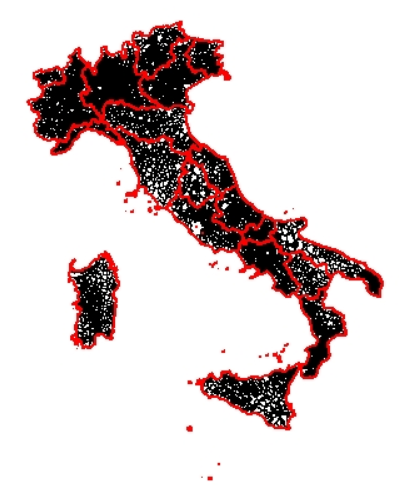
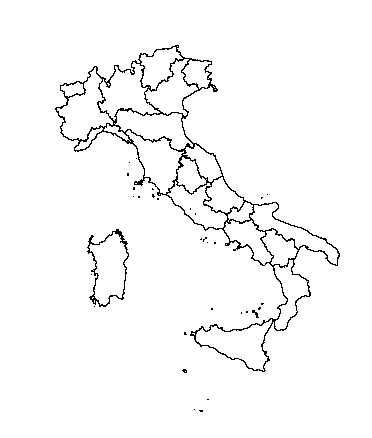
uodate dissolve R

diff --git a/prove/dissolvi_regione.md b/prove/dissolvi_regione.md
@@ -85,6 +85,7 @@ time mapshaper encoding=utf-8  com01012018_wgs84.shp -dissolve cod_reg -o outdis
 ##required packages
 library("rgdal")
 library("maptools")
+library("raster")
 
 start.time <- Sys.time()
 ## read shapefile
@@ -93,12 +94,11 @@ end.time <- Sys.time()
 time.taken <- end.time - start.time
 time.taken
 
-##dissolve with maptools AND writeOGR
+##dissolve with raster AND writeOGR
 start.time <- Sys.time()
-dissolve_reg<-unionSpatialPolygons(comuni, comuni$cod_reg)
-#plot(dissolve_reg)
-dissolve_reg<- as(dissolve_reg,"SpatialPolygonsDataFrame")
-writeOGR(dissolve_reg, dsn = "C:\\Users\\Salvatore\\Desktop\\mapshaper",layer="dissolve_regR", driver = "ESRI Shapefile")
+dissolveR<- aggregate(comuni, by ='cod_reg')
+#plot(dissolveR)
+writeOGR(dissolveR, dsn = "C:\\Users\\Salvatore\\Desktop\\mapshaper",layer="dissolve_regioni", driver = "ESRI Shapefile")
 end.time <- Sys.time()
 time.taken <- end.time - start.time
 time.taken
@@ -118,4 +118,4 @@ tempo [sec]|programma
 249|SpatiaLite_GUI 2.10
 381|pgAdmin 3 (PostGIS 2.2.3)
 9|mapshaper
-19+120|R + RStudio
+16+120|R + RStudio

diff --git a/prove/elimina_geom_duplicate.md b/prove/elimina_geom_duplicate.md
@@ -8,11 +8,10 @@ dataset: db sqlite con spatialidex
     - [QGIS 2.18.24](#qgis-21824)
     - [QGIS 3.2.3](#qgis-323)
     - [QGIS 3.3 master](#qgis-33-master)
-    - [SpatiaLite_GUI 2.10](#spatialite_gui-210)
+    - [SpatiaLite_GUI 2.10](#spatialitegui-210)
     - [PostgreSQL 9.3 / PostGIS 2.2.3 / pgAdmin 3](#postgresql-93--postgis-223--pgadmin-3)
-    - [mapshaper - [issues](https://github.com/mbloch/mapshaper/issues/305) - grazie [Andrea](https://twitter.com/aborruso?lang=it)](#mapshaper---issueshttpsgithubcommblochmapshaperissues305---grazie-andreahttpstwittercomaborrusolangit)
+    - [mapshaper - issues - grazie Andrea](#mapshaper---issues---grazie-andrea)
     - [RISULTATI (LZ50) - elimina geometrie duplicate](#risultati-lz50---elimina-geometrie-duplicate)
-    - [RISULTATI (xxx) - estrai vertici](#risultati-xxx---estrai-vertici)
 
 <!-- /TOC -->
 

diff --git a/prove/conta_punti_poligono.md b/prove/conta_punti_poligono.md
@@ -13,7 +13,6 @@ dataset: db sqlite con spatialidex
     - [mapshaper](#mapshaper)
     - [R + RStudio](#r--rstudio)
     - [RISULTATI (LZ50) - conta punti nel poligono](#risultati-lz50---conta-punti-nel-poligono)
-    - [RISULTATI (xxx) - estrai vertici](#risultati-xxx---estrai-vertici)
 
 <!-- /TOC -->
 

diff --git a/prove/estrai_vertici.md b/prove/estrai_vertici.md
@@ -13,7 +13,6 @@ dataset: db sqlite con spatialidex
     - [mapshaper](#mapshaper)
     - [R + RStudio](#r--rstudio)
     - [RISULTATI (LZ50) - estrai vertici](#risultati-lz50---estrai-vertici)
-    - [RISULTATI (xxx) - estrai vertici](#risultati-xxx---estrai-vertici)
 
 <!-- /TOC -->
 
